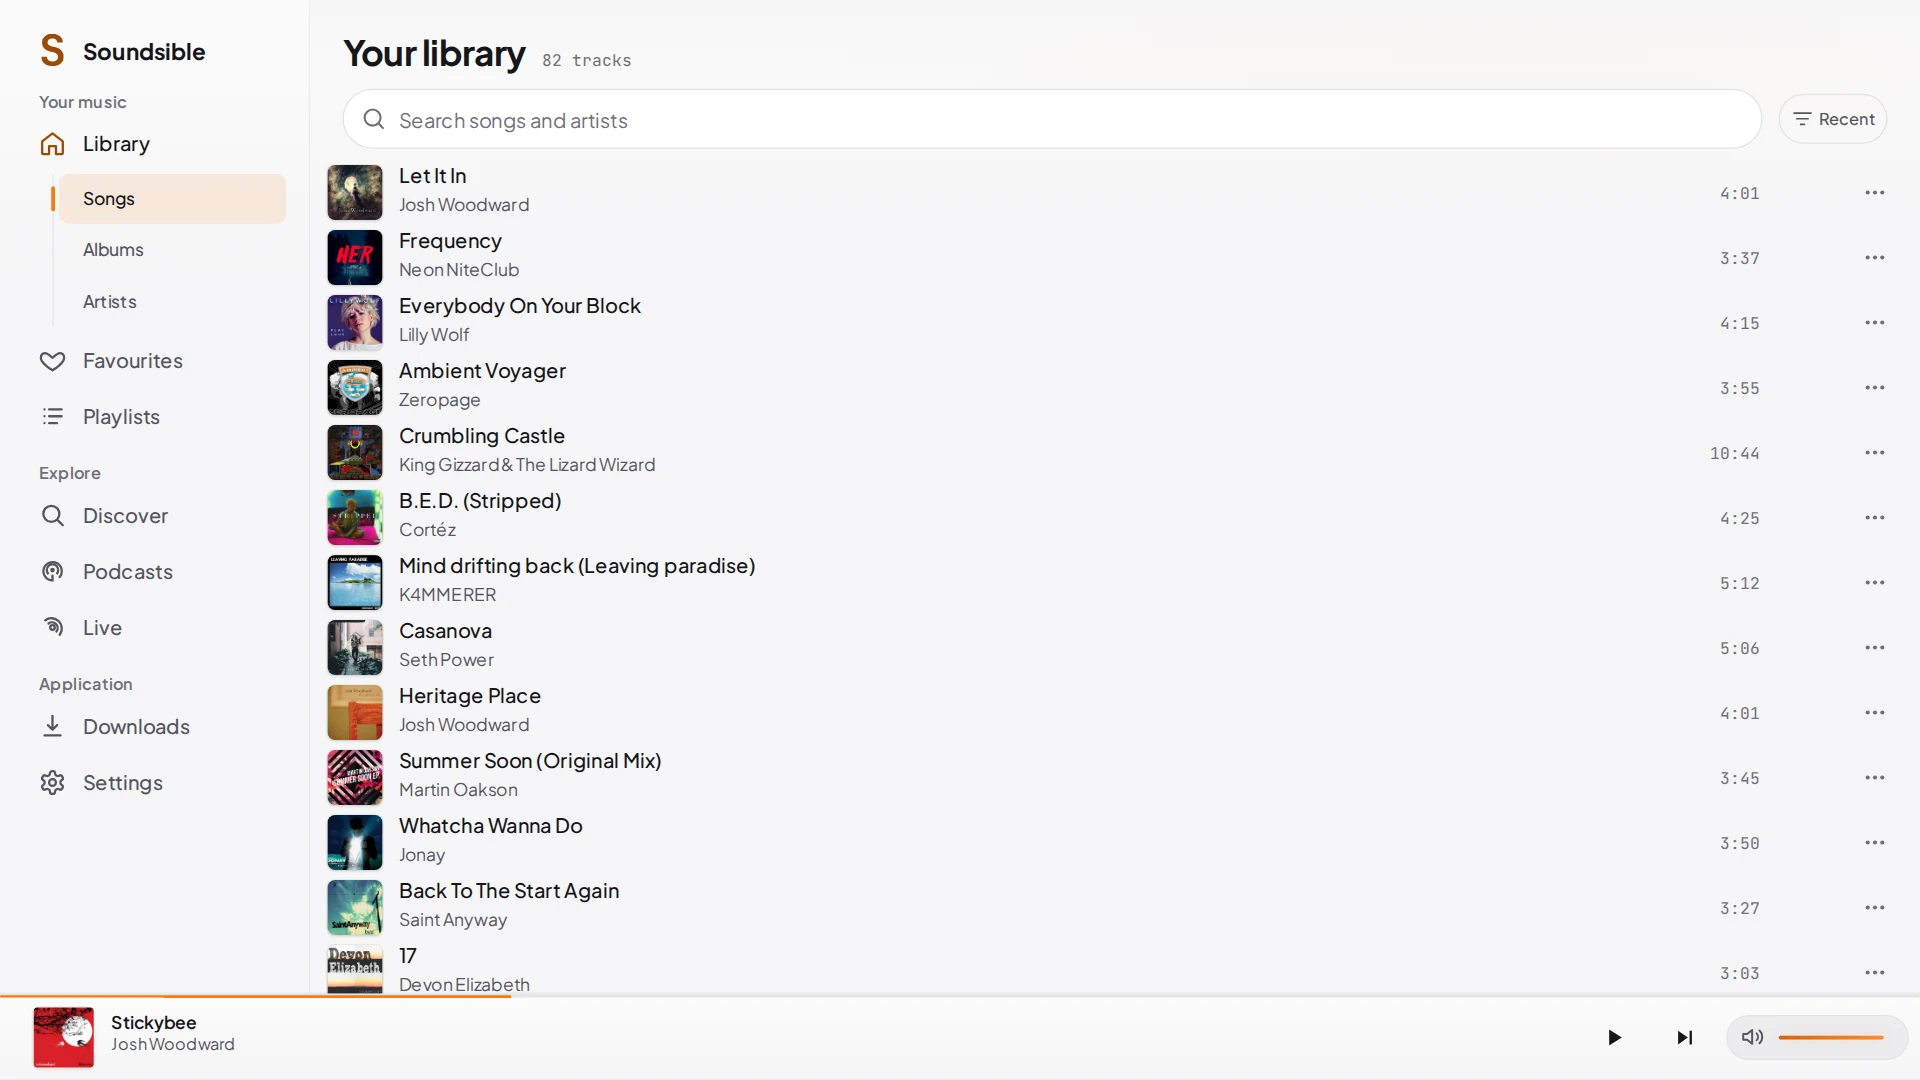
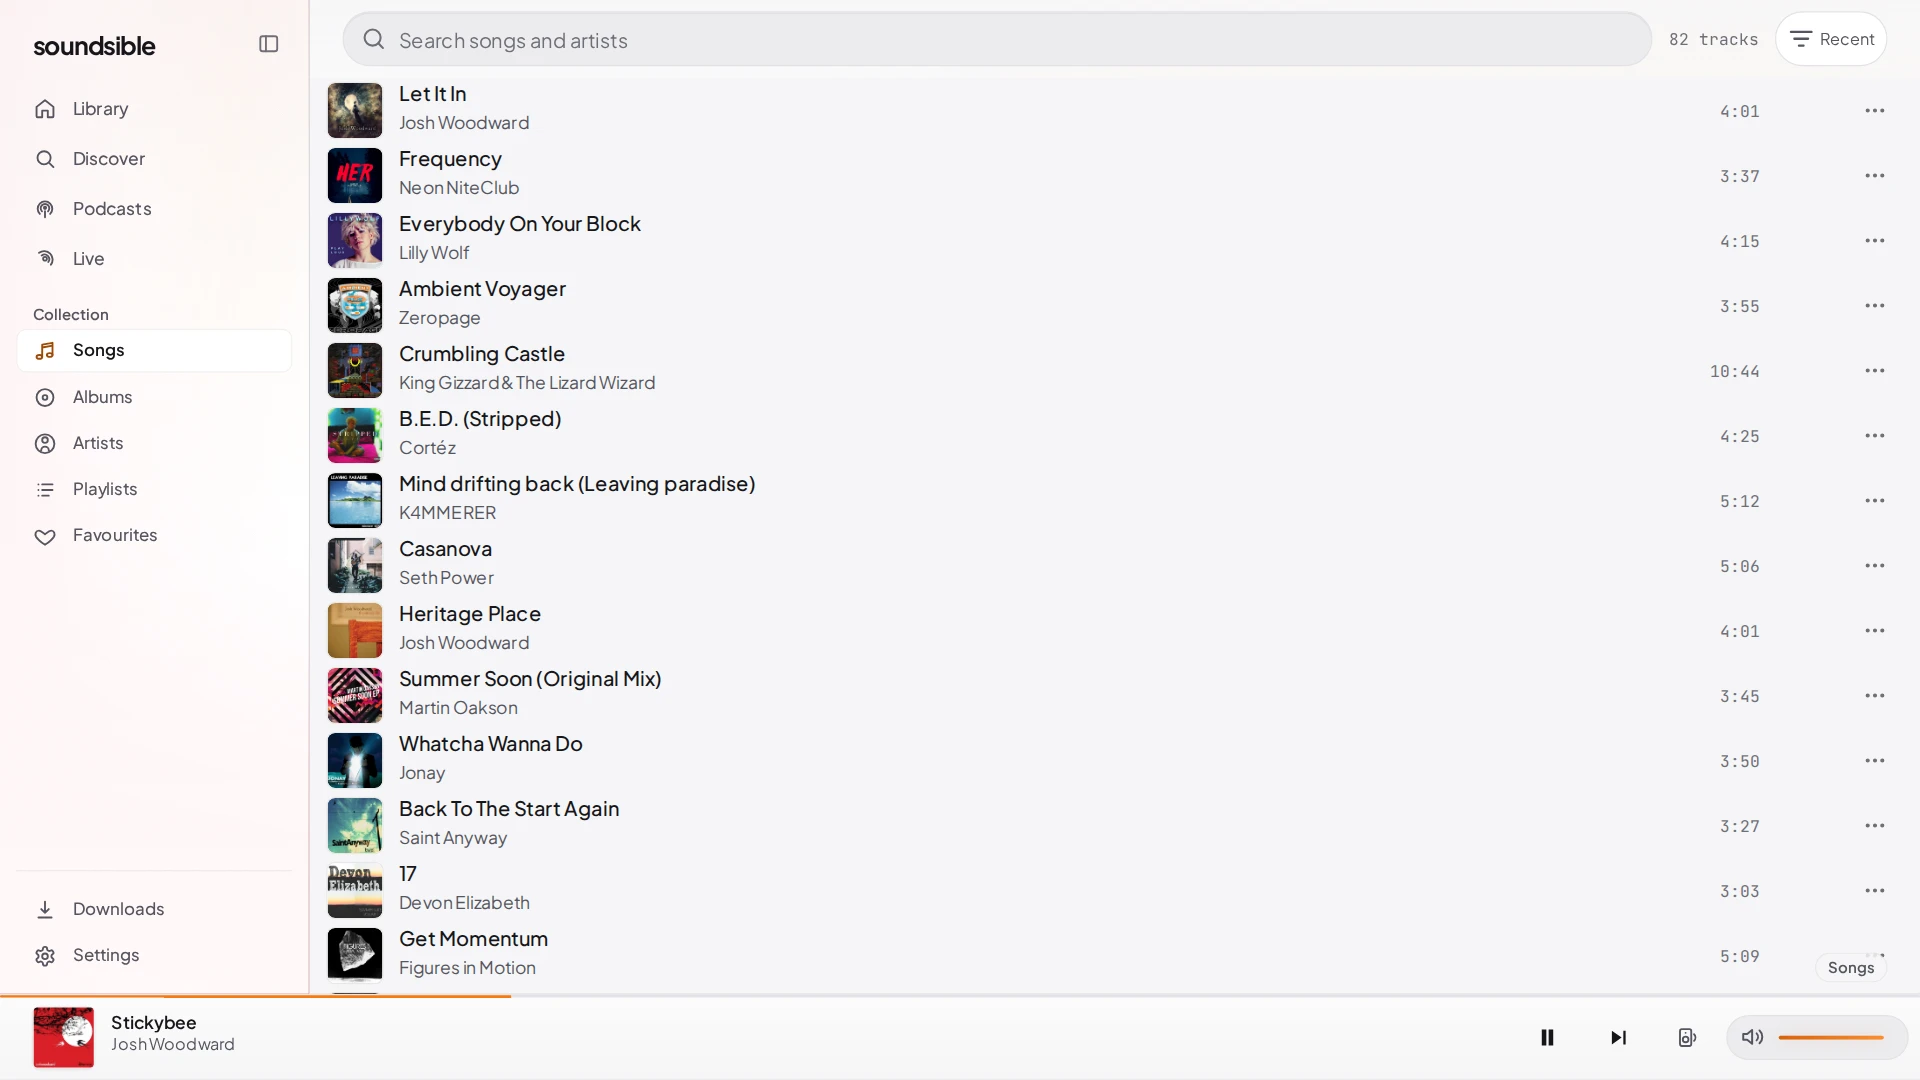
docs(showcase): refresh README screenshots with docked player and active playback

diff --git a/ui_web/showcase/screens.spec.ts b/ui_web/showcase/screens.spec.ts
@@ -18,13 +18,18 @@ const PALETTES = THEMES.filter((theme) => theme !== 'system');
 async function startup(page: Page, route: string) {
   await page.goto(`/player/#${route}`);
   await expect(page.locator('#startup-screen')).toHaveCount(0);
-  await expect(page.locator('[data-omni-player]')).toContainText(NOW_PLAYING.title);
+  const omni = page.locator('[data-omni-player]');
+  await expect(omni).toContainText(NOW_PLAYING.title);
+  await omni.getByRole('button', { name: 'Play' }).click();
+  await expect(omni.getByRole('button', { name: 'Pause' })).toBeVisible();
+  await page.mouse.move(0, 0);
 }
 
 async function openPlayer(page: Page) {
   await startup(page, '/library?view=songs');
   await page.locator('[data-omni-player]').getByRole('button', { name: /^NORMAL:/ }).click();
   await expect(page.locator('[data-player-surface-open]')).toBeVisible();
+  await page.mouse.move(0, 0);
   await settle(page, '[data-player-surface-open]');
 }
 
@@ -36,9 +41,10 @@ const SHOTS: Array<{ name: string; project: 'desktop' | 'mobile'; themes?: strin
     themes: ['dark'], // The social card uses the dark shell with its lyrics open.
     stage: async (page) => {
       await openPlayer(page);
-      await page.locator('[data-player-stage-mode="now-playing"]').getByRole('button', { name: 'Show lyrics' }).click();
-      await expect(page.locator('[data-lyrics-stage]')).toBeVisible();
-      await expect(page.locator('[data-lyrics-scroll]')).toContainText('And god help any fool');
+      await page.locator('[data-compact-lyrics-toggle]').click();
+      await expect(page.locator('[data-compact-lyrics]')).toBeInViewport({ ratio: 1 });
+      await expect(page.locator('[data-compact-lyrics]')).toContainText('And god help any fool');
+      await page.mouse.move(0, 0);
       await settle(page, '[data-player-surface-open]');
     },
   },

diff --git a/ui_web/showcase/engine.ts b/ui_web/showcase/engine.ts
@@ -32,7 +32,9 @@ export const track = (title: string): CatalogTrack => {
 const QUIET = new Set([
   '/api/catalog/resolve',
   '/api/discovery/music/recently-saved',
+  '/api/discovery/podcasts/countries',
   '/api/discovery/podcasts/recommendations',
+  '/api/playback/link',
   '/api/playback/play-timing',
   '/api/playback/trace',
 ]);
@@ -196,6 +198,14 @@ export async function mockShowcaseEngine(page: Page, theme: string): Promise<voi
     localStorage.setItem('theme', theme);
     localStorage.setItem('soundsible:interface-size', 'normal');
     localStorage.setItem('device_id', 'showcase-device');
+    // Freeze the audio clock at NOW_PLAYING_AT while letting the element enter
+    // the playing state, so every screenshot shows active playback without
+    // advancing between frames.
+    const nativePlay = HTMLMediaElement.prototype.play;
+    HTMLMediaElement.prototype.play = function play(this: HTMLMediaElement) {
+      this.playbackRate = 0;
+      return nativePlay.call(this);
+    };
   }, theme);
 }
 

diff --git a/docs/internal/showcase/readme.html b/docs/internal/showcase/readme.html
@@ -71,7 +71,7 @@
   <div class="desktop">
     <picture>
       <source media="(prefers-color-scheme: light)" srcset="../../images/screenshots/light/desktop-now-playing.webp">
-      <img src="../../images/screenshots/dark/desktop-now-playing.webp" alt="Soundsible desktop now playing, library and queue">
+      <img src="../../images/screenshots/dark/desktop-now-playing.webp" alt="Soundsible desktop library with the player docked on the right">
     </picture>
   </div>
   <div class="phone">

diff --git a/README.md b/README.md
@@ -17,7 +17,7 @@ library, playlists and listening history on that computer. It needs no
 streaming subscription and no account with any service, and it is free and
 open source (MIT).
 
-<picture><source media="(prefers-color-scheme: light)" srcset="docs/images/readme-light.png"><img src="docs/images/readme-dark.png" alt="Soundsible desktop player with album artwork and queue, with the mobile music library overlapping its lower left corner" width="100%"></picture>
+<picture><source media="(prefers-color-scheme: light)" srcset="docs/images/readme-light.png"><img src="docs/images/readme-dark.png" alt="Soundsible desktop library with the player docked on the right, and the mobile music library overlapping its lower left corner" width="100%"></picture>
 
 <details>
 <summary>More screenshots: search, library and mobile lyrics</summary>

diff --git a/docs/internal/showcase/README.md b/docs/internal/showcase/README.md
@@ -8,8 +8,8 @@ upper corners clear of the library header, with vector signal, Wi-Fi and
 battery icons. The library capture retains its original aspect ratio below
 that area. No swipe indicator overlays the capture.
 The transparent canvas follows the README background.
-The phone overlaps only the lower part of the desktop's left library pane,
-leaving the player and the entire right queue panel visible.
+The phone overlaps only the lower part of the desktop's left sidebar,
+leaving the song list and the entire docked player column visible.
 
 After installing the dependencies in `ui_web/`, run
 `node scripts/render_readme.mjs` from the repository root to compose both PNGs
